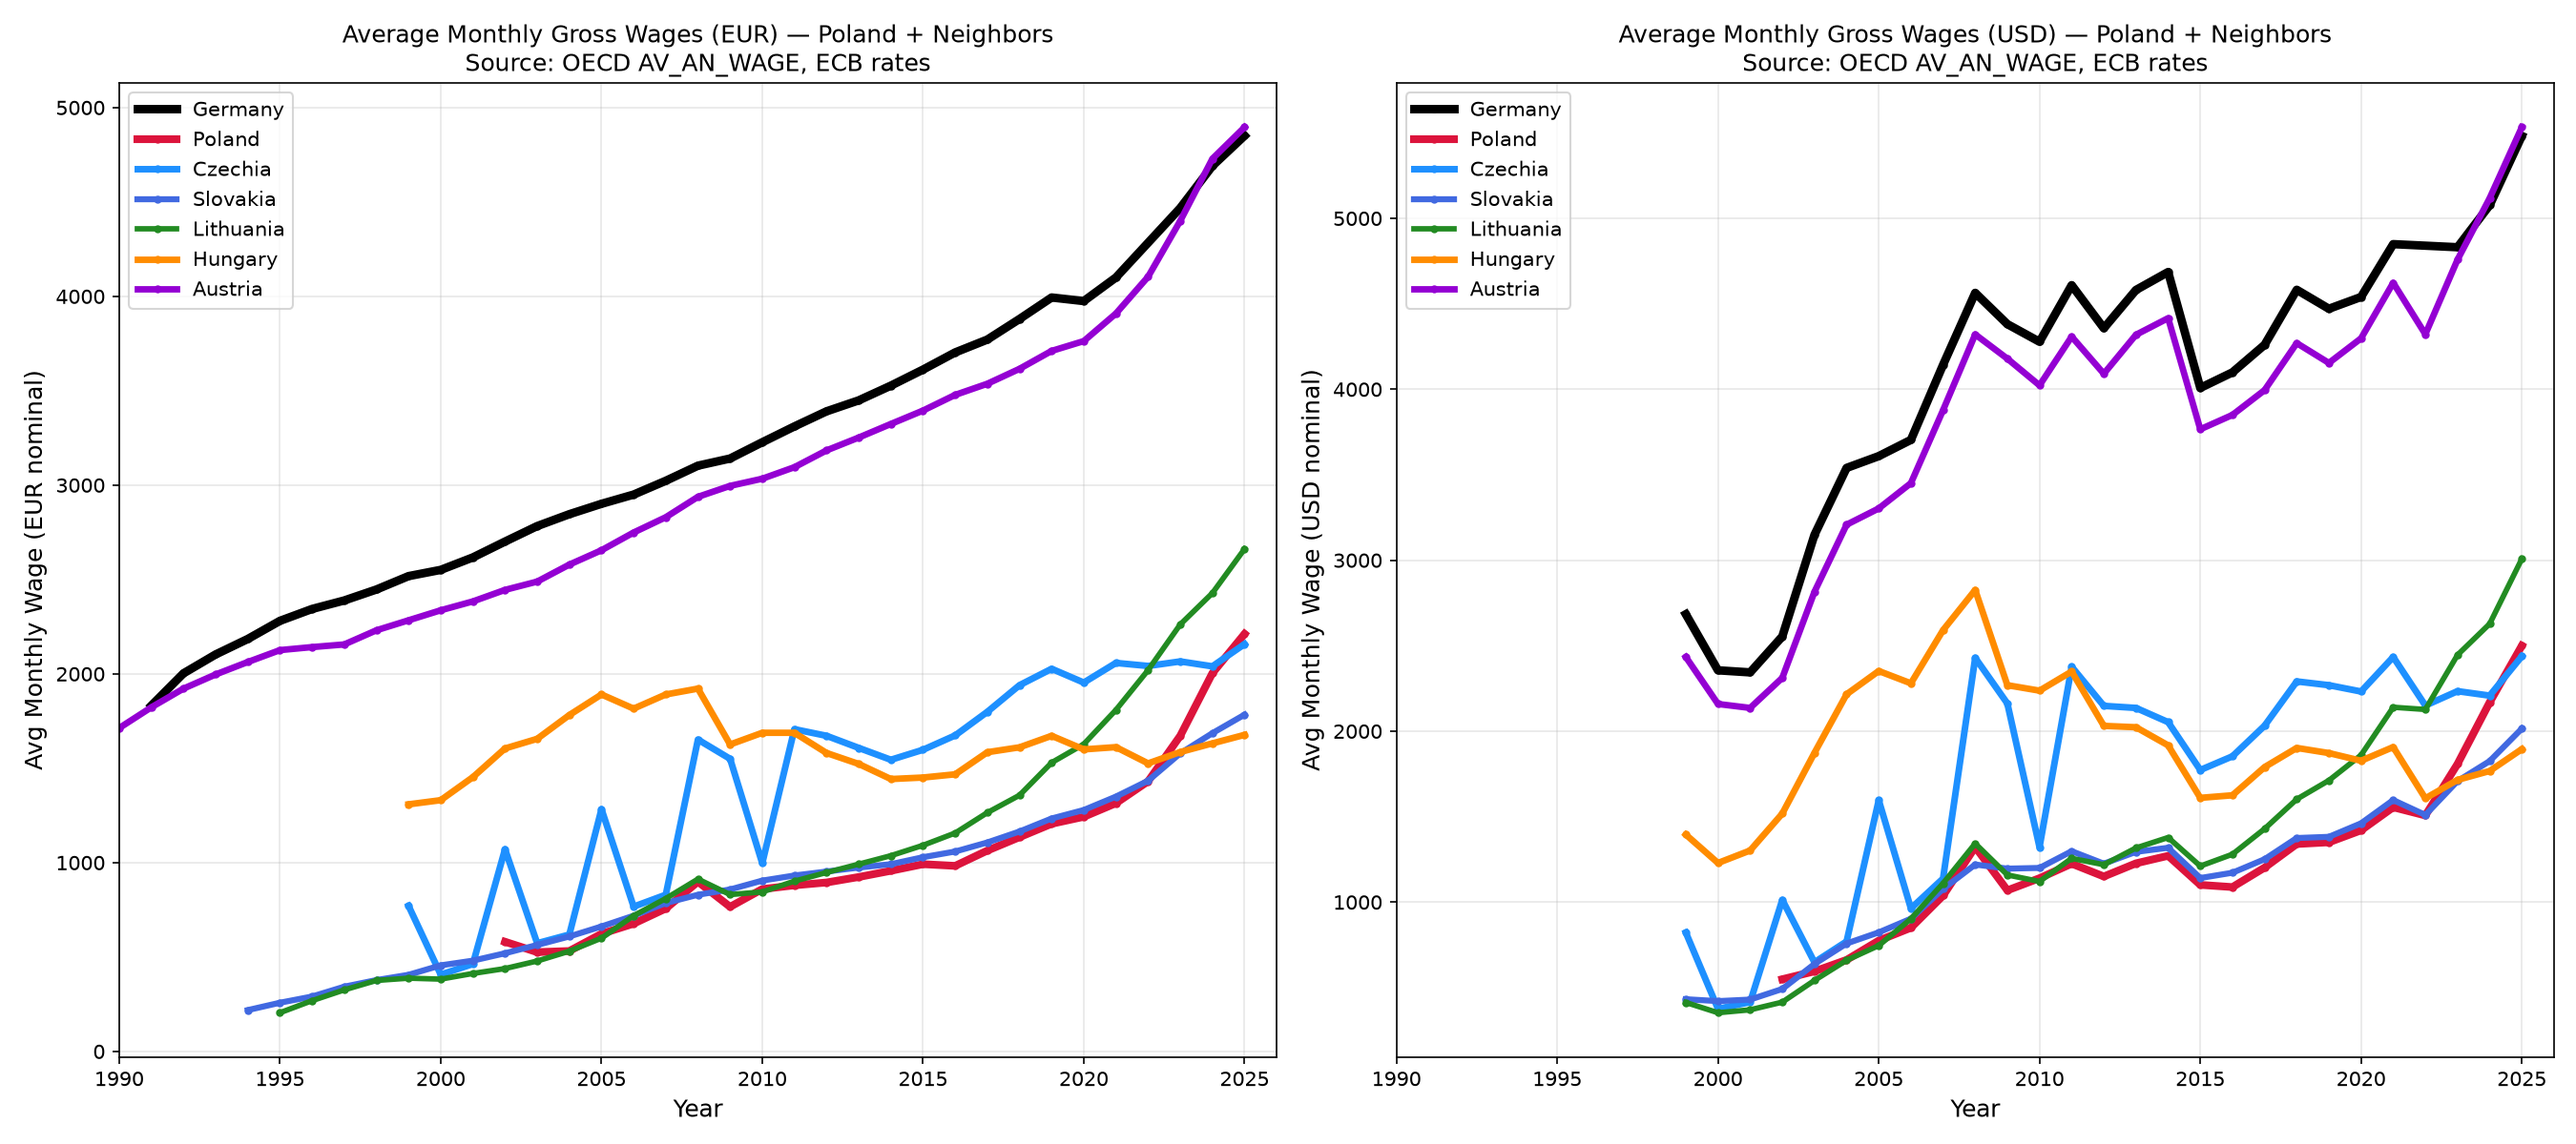
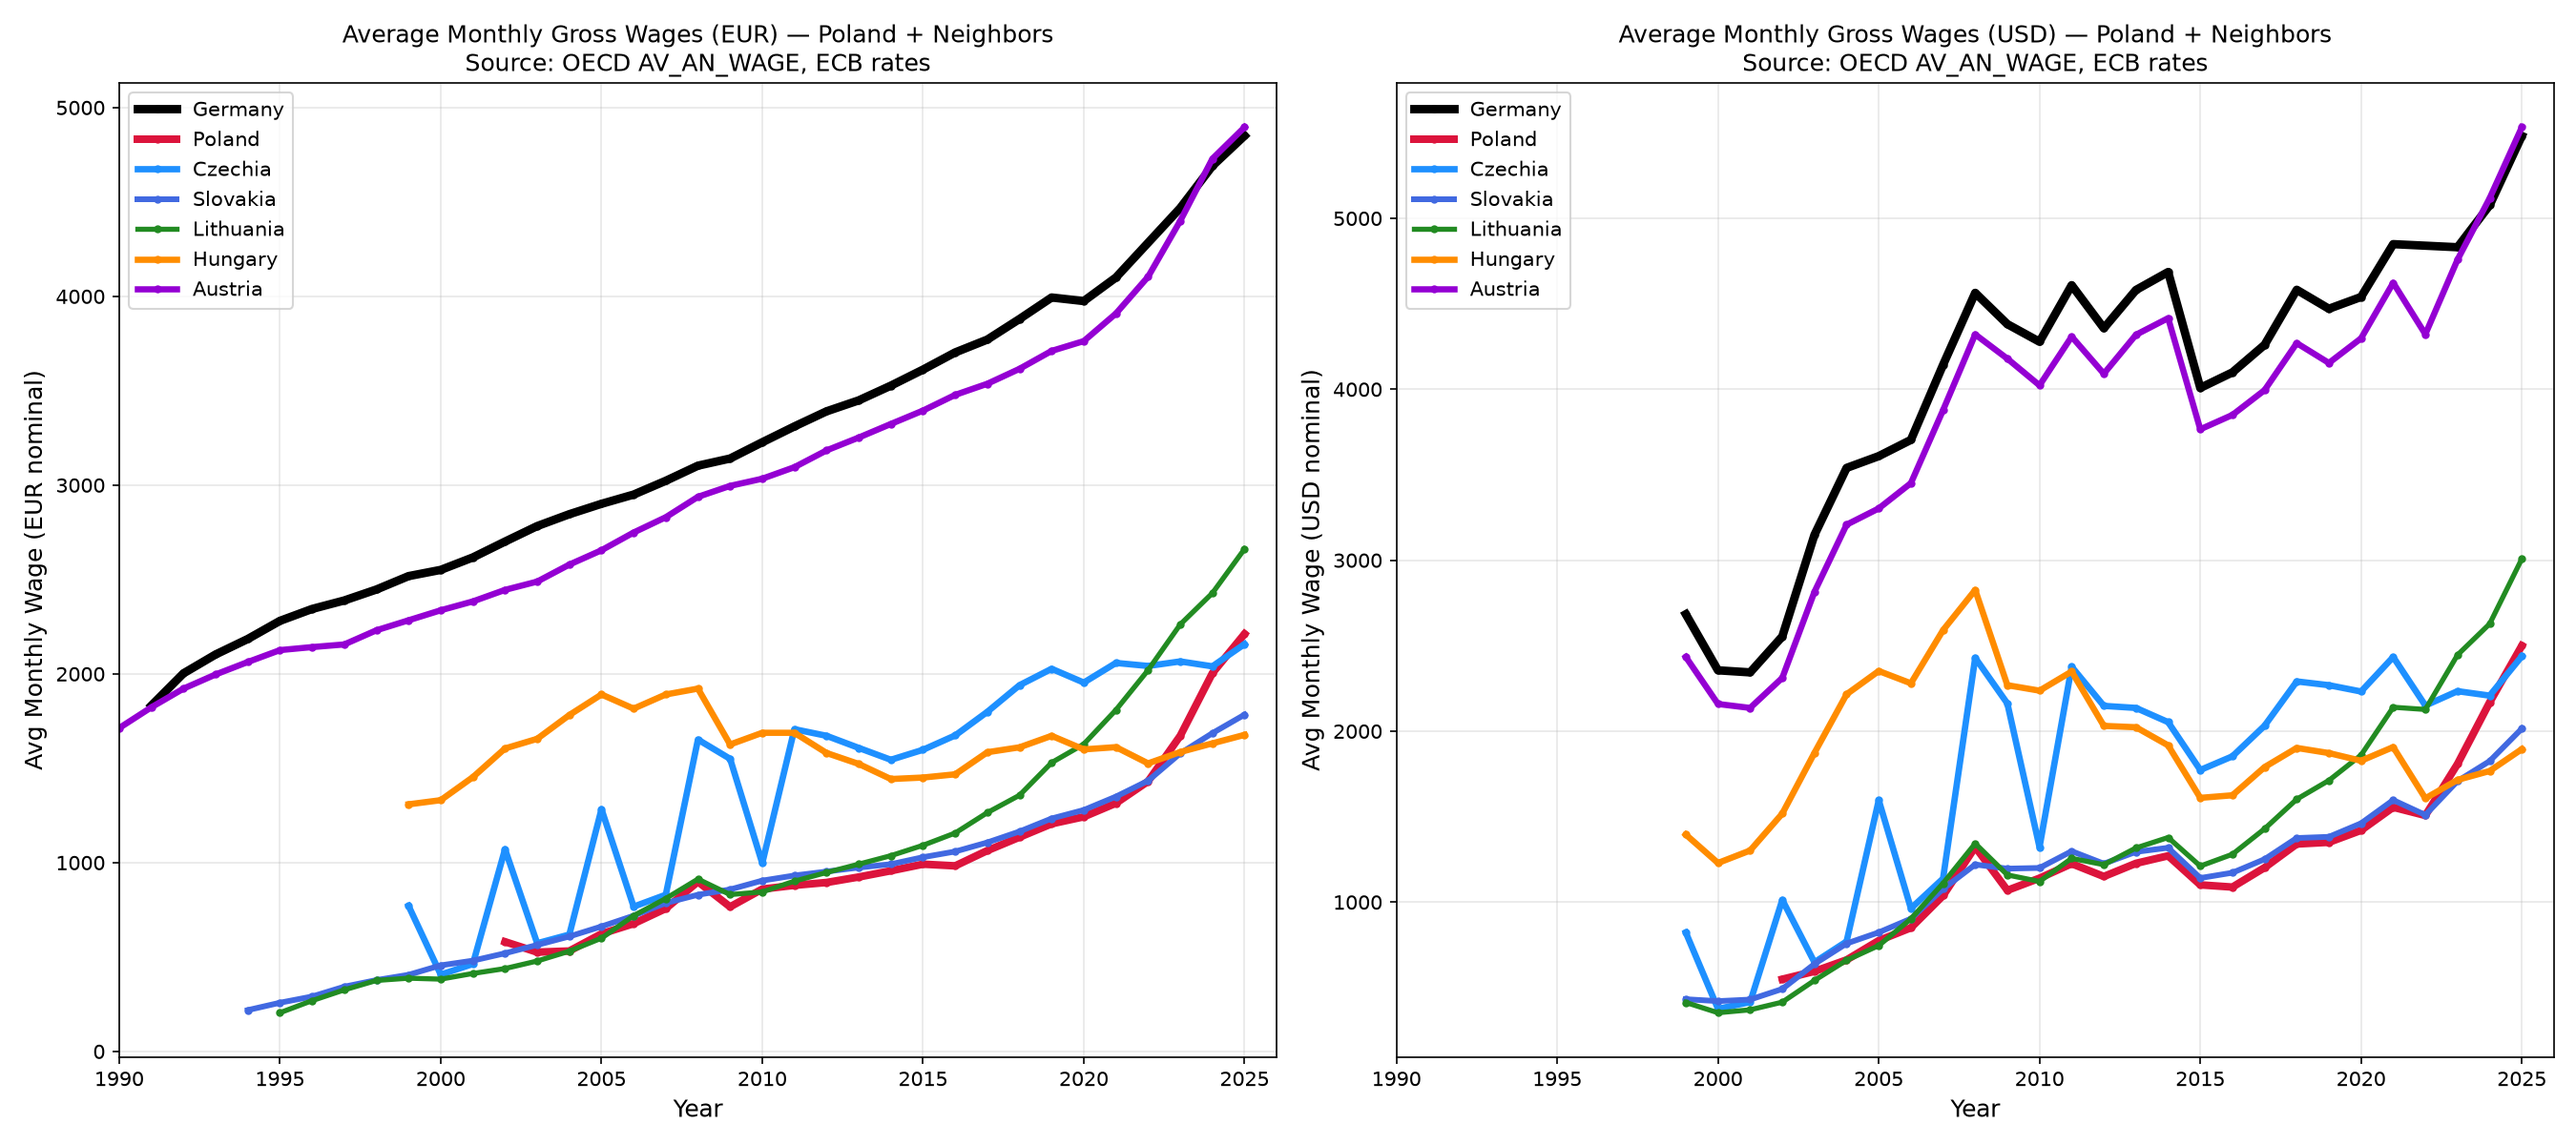
Lower min line width to 0.3px for better population contrast

diff --git a/src/fetch_all_wages.py b/src/fetch_all_wages.py
@@ -626,7 +626,7 @@ POPULATION = {
 
 import math
 
-def _line_width(iso2, min_w=0.7, max_w=4.5):
+def _line_width(iso2, min_w=0.3, max_w=4.5):
     """Line width proportional to log(population)."""
     pop = POPULATION.get(iso2, 1.0)
     # log scale: Montenegro 0.62M → Russia 144M
